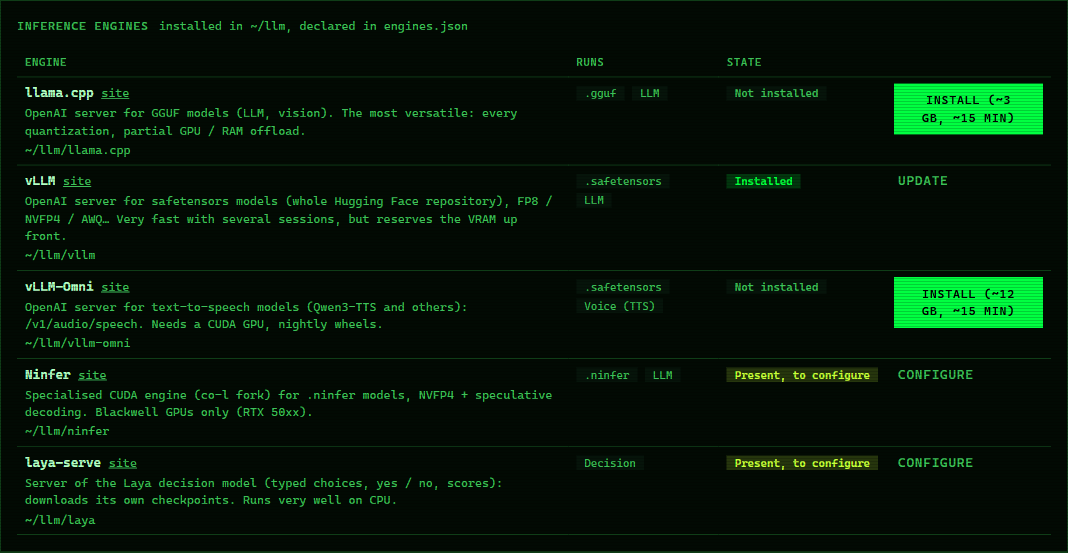
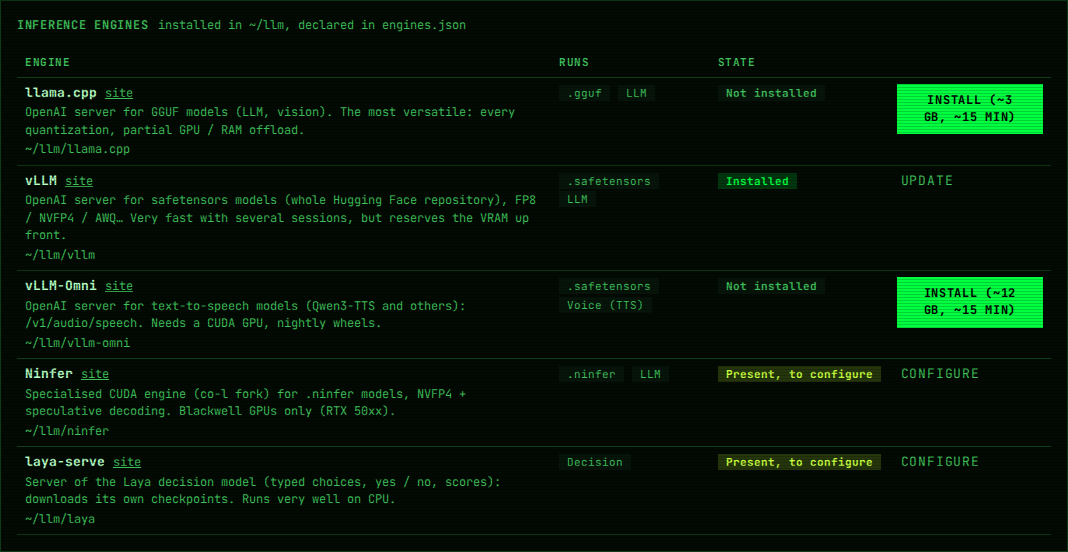
Add the install verdict for variants that need a missing engine

diff --git a/web/js/components/hf-browser.js b/web/js/components/hf-browser.js
@@ -35,13 +35,16 @@ function adviceHtml(d) {
   const main = d.variants.filter(v => v.verdict !== "extra");
   const fits = d.variants.some(v => ["gpu", "installed"].includes(v.verdict));
   const allIncompatible = main.length && main.every(v => v.verdict === "incompatible");
+  const allInstall = main.length && main.every(v => v.verdict === "install");
   if (d.alternatives.length) {
-    const why = !main.length ? "" : t(allIncompatible ? "ui.hf.none_format" : "ui.hf.none_fits");
+    const why = !main.length ? "" : t(allInstall ? "ui.hf.install_first"
+      : allIncompatible ? "ui.hf.none_format" : "ui.hf.none_fits");
     return `<div class="alts"><b>${esc(why)} ${esc(t("ui.hf.alternatives", { base: d.base_searched }))}</b>
       ${d.alternatives.map(alternativeHtml).join("")}</div>`;
   }
   if (fits || !main.length) return "";
   const smallest = main.reduce((a, v) => v.size < a.size ? v : a);
+  if (allInstall) return `<div class="alts"><b>${esc(t("ui.hf.install_first"))}</b></div>`;
   if (allIncompatible) return `<div class="alts"><b>${esc(t("ui.hf.none_usable"))}</b> ${esc(smallest.why)}</div>`;
   return `<div class="alts"><b>${esc(t("ui.hf.nothing_fits"))}</b> ${esc(t("ui.hf.smallest",
     { name: smallest.quant || smallest.name, size: size(smallest.size), why: smallest.why }))}</div>`;

diff --git a/web/css/manage.css b/web/css/manage.css
@@ -9,7 +9,7 @@
 
 .verdict { font-size: 11px; font-weight: 600; border-radius: 999px; padding: 1px 8px; white-space: nowrap; }
 .v-gpu, .v-installed { background: color-mix(in srgb, var(--ok) 18%, transparent); color: var(--ok); }
-.v-partial, .v-disk { background: color-mix(in srgb, var(--warn) 18%, transparent); color: var(--warn); }
+.v-partial, .v-disk, .v-install { background: color-mix(in srgb, var(--warn) 18%, transparent); color: var(--warn); }
 .v-no, .v-incompatible { background: color-mix(in srgb, var(--err) 15%, transparent); color: var(--err); }
 .v-extra { background: var(--panel-2); color: var(--muted); }
 .why { font-size: 12px; color: var(--muted); flex-basis: 100%; padding-left: 26px; }

diff --git a/scripts/screenshots.py b/scripts/screenshots.py
@@ -1,13 +1,14 @@
 """Capture the screenshots referenced by docs/how-to.md (docs/images/).
 
-Playwright drives the user's Windows Chrome (no browser download). The launcher runs as a
-demo instance: config, models folder and port live in a temp dir, the user's setup is
-untouched. A fake downloaded Qwen3-TTS repository (sparse weights + its meta) makes the
-library show a TTS file.
+Playwright drives a headless Chromium installed in WSL. The launcher runs as a demo
+instance: config, models folder and port live in a temp dir, the user's setup is untouched.
+A fake downloaded Qwen3-TTS repository (sparse weights + its meta) makes the library show
+a TTS file.
 
 Setup (once):
     uv venv venv-shots
     uv pip install --python venv-shots/bin/python playwright pillow
+    sudo venv-shots/bin/python -m playwright install --with-deps chromium
     venv-shots/bin/python scripts/screenshots.py
 """
 import json
@@ -15,13 +16,11 @@ import os
 import shutil
 import socket
 import subprocess
-import sys
 import time
 import urllib.request
 from pathlib import Path
 
 ROOT = Path(__file__).resolve().parent.parent
-CHROME = "/mnt/c/Program Files/Google/Chrome/Application/chrome.exe"  # WSL interop: runs on Windows
 OUT = ROOT / "docs" / "images"
 REPO = "Qwen/Qwen3-TTS-12Hz-1.7B-CustomVoice"
 WIDTH = 1400  # same width as the existing screenshots
@@ -33,20 +32,6 @@ def free_port():
     p = s.getsockname()[1]
     s.close()
     return p
-
-
-def low_free_port(start=19001, n=100):
-    """The WSL2 Windows->WSL localhost forwarding does not cover high (ephemeral) ports."""
-    for p in range(start, start + n):
-        s = socket.socket()
-        try:
-            s.bind(("127.0.0.1", p))
-        except OSError:
-            continue
-        finally:
-            s.close()
-        return p
-    raise SystemExit("no free port for Chrome remote debugging")
 
 
 def demo_setup():
@@ -89,63 +74,36 @@ def start_launcher(cfg, models, port):
     raise SystemExit("the launcher did not start")
 
 
-def shoot(base, tmp):
-    """CDP over TCP: WSL interop passes no file descriptors to Windows processes, so the
-    remote-debugging-pipe Playwright uses by default does not survive; a port does."""
+def shoot(base):
     from playwright.sync_api import sync_playwright
-    profile = tmp / "chrome-profile"
-    chrome, dbg = None, None
-    for dbg in (low_free_port() + i for i in range(20)):
-        chrome = subprocess.Popen([CHROME, f"--remote-debugging-port={dbg}",
-                                   f"--user-data-dir={profile}",
-                                   "--no-first-run", "--no-default-browser-check",
-                                   f"--window-size={WIDTH},1000"],
-                                  stdout=subprocess.DEVNULL, stderr=subprocess.DEVNULL)
-        for _ in range(40):
-            try:
-                urllib.request.urlopen(f"http://127.0.0.1:{dbg}/json/version", timeout=1)
-                break
-            except Exception:
-                time.sleep(0.2)
-        else:
-            chrome.terminate()
-            chrome.wait()
-            continue
-        break
-    else:
-        raise SystemExit("Chrome did not open its remote-debugging port")
-    try:
-        with sync_playwright() as pw:
-            browser = pw.chromium.connect_over_cdp(f"http://127.0.0.1:{dbg}")
-            page = browser.contexts[0].new_page()
-            page.set_viewport_size({"width": WIDTH, "height": 1000})
+    with sync_playwright() as pw:
+        browser = pw.chromium.launch(headless=True)
+        page = browser.new_page()
+        page.set_viewport_size({"width": WIDTH, "height": 1000})
 
-            # (a) Hugging Face verdict: the TTS repository and the vLLM-Omni install suggestion
-            page.goto(base + "/models")
-            page.fill("#hfRepo", REPO)
-            page.click("#hfForm button")
-            page.wait_for_selector("#hfFiles button[data-install='vllm-omni']")
-            page.wait_for_timeout(400)
-            page.locator("section.panel:has(#hfForm)").screenshot(path=str(OUT / "hf-tts-verdict.png"))
+        # (a) Hugging Face verdict: the TTS repository and the vLLM-Omni install suggestion
+        page.goto(base + "/models")
+        page.fill("#hfRepo", REPO)
+        page.click("#hfForm button")
+        page.wait_for_selector("#hfFiles button[data-install='vllm-omni']")
+        page.wait_for_timeout(400)
+        page.locator("section.panel:has(#hfForm)").screenshot(path=str(OUT / "hf-tts-verdict.png"))
 
-            # (b) Settings: the engine catalog with vLLM-Omni and its install button
-            page.goto(base + "/settings")
-            page.wait_for_selector("#engTable tbody tr:has-text('vLLM-Omni')")
-            page.wait_for_timeout(400)
-            page.locator("#enginesSec").screenshot(path=str(OUT / "engines.png"))
+        # (b) Settings: the engine catalog with vLLM-Omni and its install button
+        page.goto(base + "/settings")
+        page.wait_for_selector("#engTable tbody tr:has-text('vLLM-Omni')")
+        page.wait_for_timeout(400)
+        page.locator("#enginesSec").screenshot(path=str(OUT / "engines.png"))
 
-            # (c) Library: the model form, engine prefilled for a TTS file
-            page.goto(base + "/models")
-            page.wait_for_selector("#libTable button[data-use]")
-            page.click("#libTable button[data-use]")
-            page.wait_for_function("document.querySelector('#modelDlg').open")
-            page.wait_for_timeout(400)
-            page.locator("#modelDlg").screenshot(path=str(OUT / "model-form.png"))
-            page.close()
-            browser.close()
-    finally:
-        chrome.terminate()
-        chrome.wait(timeout=10)
+        # (c) Library: the model form, engine prefilled for a TTS file
+        page.goto(base + "/models")
+        page.wait_for_selector("#libTable button[data-use]")
+        page.click("#libTable button[data-use]")
+        page.wait_for_function("document.querySelector('#modelDlg').open")
+        page.wait_for_timeout(400)
+        page.locator("#modelDlg").screenshot(path=str(OUT / "model-form.png"))
+        page.close()
+        browser.close()
 
 
 def main():
@@ -153,7 +111,7 @@ def main():
     port = free_port()
     proc, base = start_launcher(cfg, models, port)
     try:
-        shoot(base, tmp)
+        shoot(base)
     finally:
         proc.terminate()
         proc.wait(timeout=10)

diff --git a/tests/test_compat.py b/tests/test_compat.py
@@ -68,7 +68,7 @@ def test_variants_group_shards_and_suggest_missing_engines():
     assert out["m-Q4_K_M.gguf"]["size"] == 6 * GB and out["m-Q4_K_M.gguf"]["quant"] == "Q4_K_M"
     assert out["mmproj-F16.gguf"]["verdict"] == "extra"
     st = out["Safetensors weights (whole repository)"]
-    assert st["verdict"] == "incompatible" and st["suggest"] == {"id": "vllm"}
+    assert st["verdict"] == "install" and st["suggest"] == {"id": "vllm"}
     assert "config.json" in st["files"] and suggested == ["safetensors"]
 
 
@@ -80,9 +80,15 @@ def test_tts_repository_suggests_the_tts_engine():
                          installed=lambda eid: eid == "llama", lib_has=lambda rel: True,
                          suggest=lambda fmt, kind, repo: asked.append((fmt, kind)) or {"id": "omni"})
     [v] = compat.variants("Qwen/tts", files, "tts", ctx)
-    assert v["verdict"] == "incompatible" and v["suggest"] == {"id": "omni"}
+    assert v["verdict"] == "install" and v["suggest"] == {"id": "omni"}
     assert asked == [("safetensors", "tts")]
     assert v["files"] == ["model.safetensors", "config.json"]
+
+
+def test_incompatible_without_a_suggestion_stays_incompatible():
+    files = [{"name": "model.safetensors", "size": 4 * GB}, {"name": "config.json", "size": 1000}]
+    [v] = compat.variants("org/m", files, "llm", context())
+    assert v["verdict"] == "incompatible" and "suggest" not in v
 
 
 def test_quant_of():

diff --git a/ialauncher/domain/compat.py b/ialauncher/domain/compat.py
@@ -94,8 +94,11 @@ def variants(repo, files, kind, ctx):
             v["verdict"], v["why"] = "extra", tr("fit.mmproj")
         else:
             v["verdict"], v["why"] = fit(v["size"], v["format"], v["quant"], ctx, repo, kind)
-            if v["verdict"] == "incompatible":
-                v["suggest"] = ctx.suggest(v["format"], kind, repo)
+            if v["verdict"] == "incompatible":  # a fix exists: not a dead end, it needs an install
+                suggestion = ctx.suggest(v["format"], kind, repo)
+                if suggestion:
+                    v["suggest"] = suggestion
+                    v["verdict"] = "install"
         v["files"] = [f["name"] for f in v["files"]]
         out.append(v)
     return sorted(out, key=lambda v: -v["size"])

diff --git a/tests/test_page.py b/tests/test_page.py
@@ -12,7 +12,7 @@ JS_KEY = re.compile(r"""\bt\(\s*["']([\w.]+)["']""")
 DYNAMIC = {"ui.theme.": ["auto", "light", "dark", "cyber", "pixel", "neo"],
            "ui.state.": ["stopped", "starting", "ready", "stopping", "error"],
            "ui.vram.": ["live", "estimate", "load", "shared", "cpu"],
-           "ui.verdict.": ["installed", "gpu", "partial", "no", "incompatible", "disk", "extra"],
+           "ui.verdict.": ["installed", "gpu", "partial", "no", "incompatible", "install", "disk", "extra"],
            "ui.src.": ["hf_cache", "hf", "local"],
            "ui.col.": ["model", "kind", "engine", "file", "port", "runs", "state", "quant", "version", "date", "size",
                        "used_by"],
